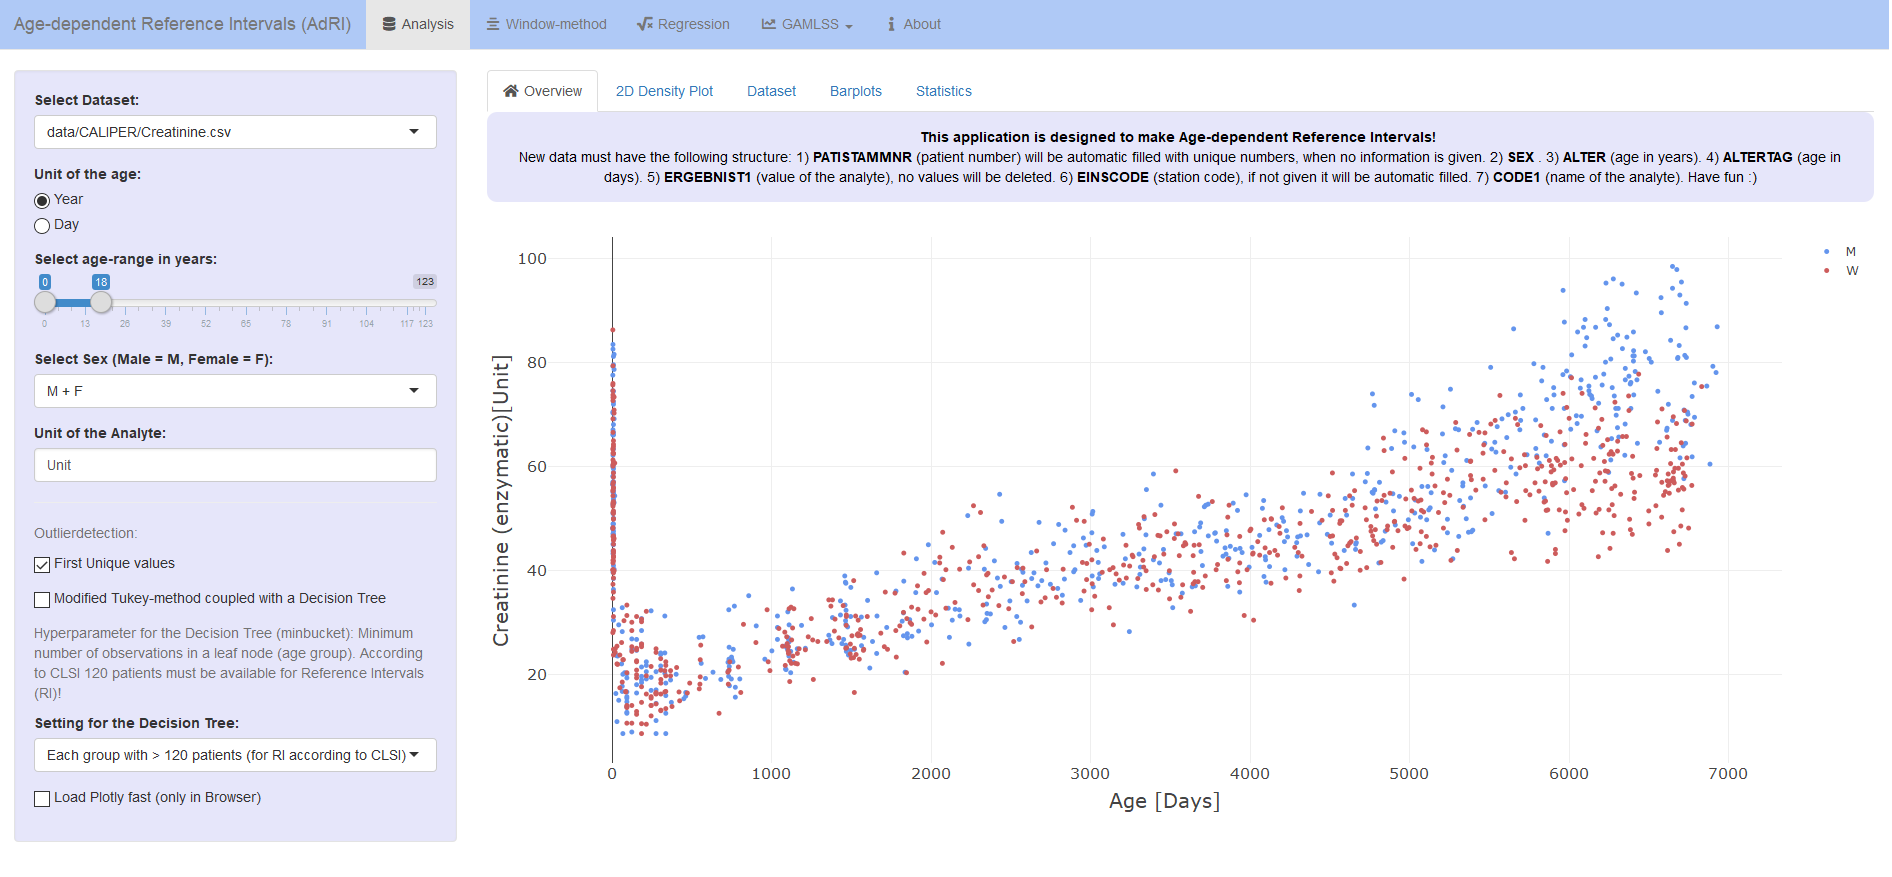
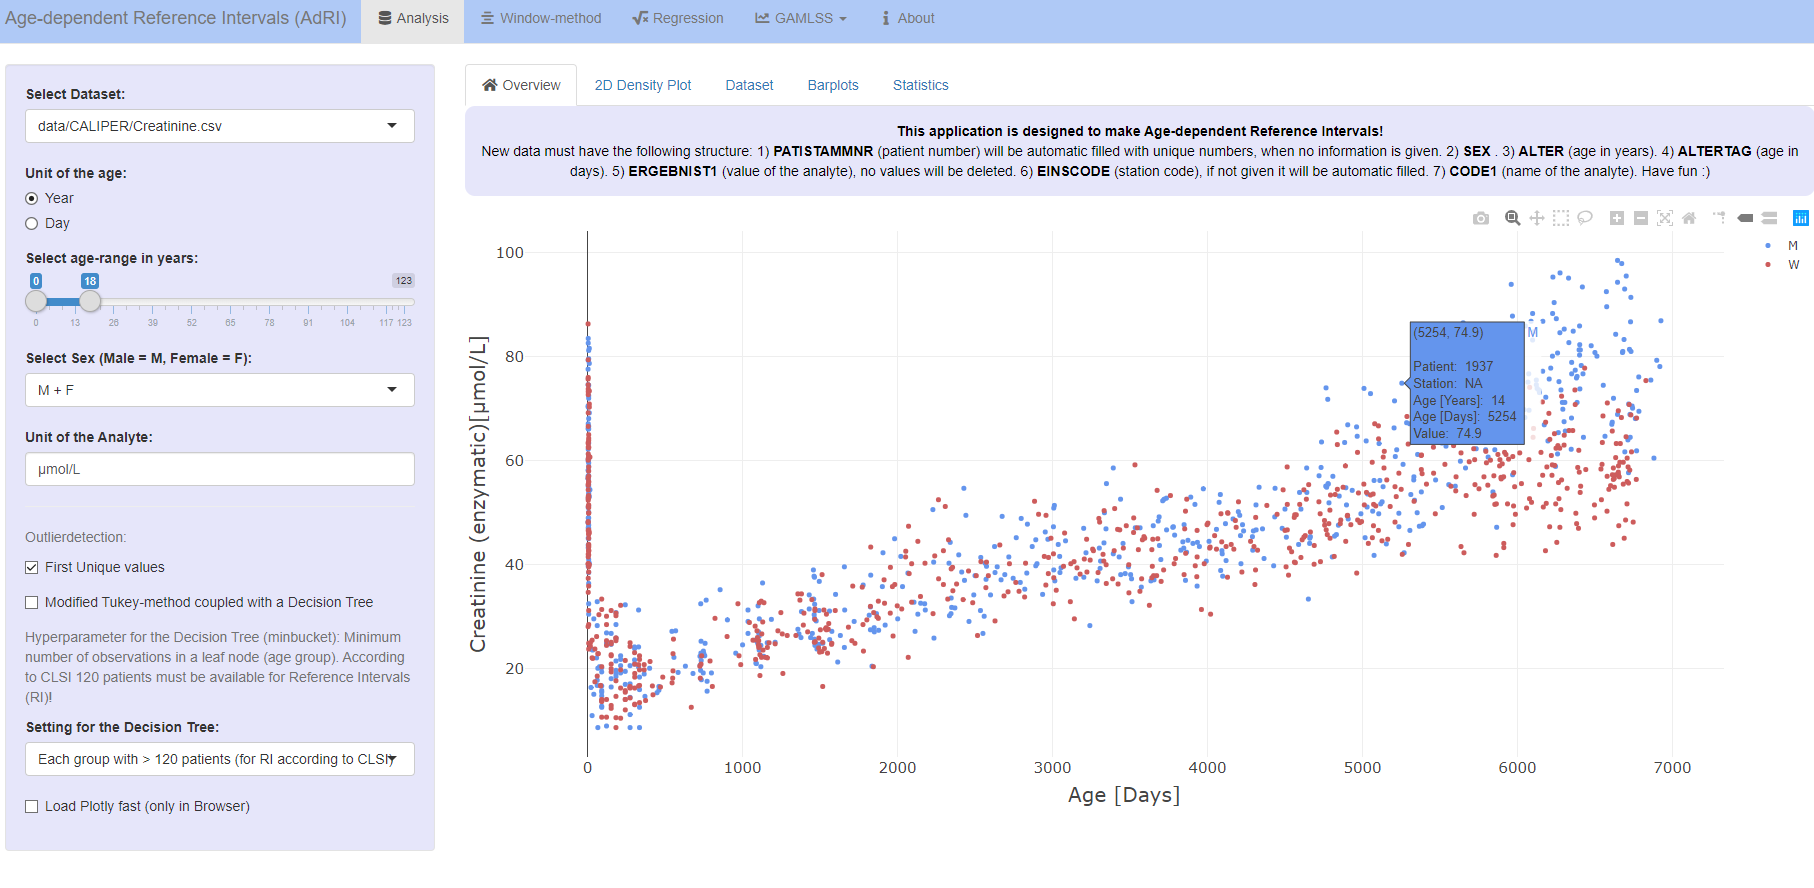
update example from creatinine data

diff --git a/README.md b/README.md
@@ -6,18 +6,6 @@
 
 This Shiny App was developed to create **A**ge-**d**ependent **R**eference **I**ntervals (**AdRI**) using different methods ([**LMS**](https://github.com/SandraKla/Age-dependent-Reference-Intervals/wiki/Generalized-additive-models-for-location,-scale-and-shape-(GAMLSS)#lms), [**GAMLSS**](https://github.com/SandraKla/Age-dependent-Reference-Intervals/wiki/Generalized-additive-models-for-location,-scale-and-shape-(GAMLSS)), [**Window-Methods**](https://github.com/SandraKla/Age-dependent-Reference-Intervals/wiki/Window-Methods) and [**Regression**](https://github.com/SandraKla/Age-dependent-Reference-Intervals/wiki/Regression)) (see the [Wiki](https://github.com/SandraKla/Age-dependent-Reference-Intervals/wiki)). 
 
-**Overview:**
-<img src="www/shiny.png" align="center"/>
-
-**Window-Methods:**
-<img src="www/shiny1.png" align="center"/>
-
-**GAMLSS:**
-<img src="www/shiny2.png" align="center"/>
-
-**Make discrete models from the GAMLSS-models:**
-<img src="www/shiny3.png" align="center"/>
-
 ## Installation
 
 Download the Zip-File from this Shiny App, set your working direction to this path and run:
@@ -41,3 +29,33 @@ runGitHub("Age-dependent-Reference-Intervals", "SandraKla")
 ```
 
 All required packages are downloaded when starting this app or imported if they already exist. For more information about the required packages use the [Wiki](https://github.com/SandraKla/Age-dependent-Reference-Intervals/wiki/References).
+
+
+## Example with the Creatinine data from the CALIPER study
+
+**Overview:**
+Dataset:
+<img src="www/shiny.png" align="center"/>
+Dataset with modified Tukey-method coupled to a Decision Tree:
+<img src="www/shiny_tukey.png" align="center"/>
+Gender distribution:
+<img src="www/shiny1.png" align="center"/>
+
+**Window-Methods:**
+<img src="www/shiny2.png" align="center"/>
+**Decision Tree for for age partitioning:**
+<img src="www/shiny3.png" align="center"/>
+
+**Regressions:**
+<img src="www/shiny4.png" align="center"/>
+
+**GAMLSS:**
+<img src="www/shiny5.png" align="center"/>
+**Comparison of GAMLSS:**
+<img src="www/shiny6.png" align="center"/>
+
+**Make discrete models from the GAMLSS-models:**
+<img src="www/shiny7.png" align="center"/>
+
+**Residuals from the GAMLSS-models:**
+<img src="www/shiny8.png" align="center"/>
